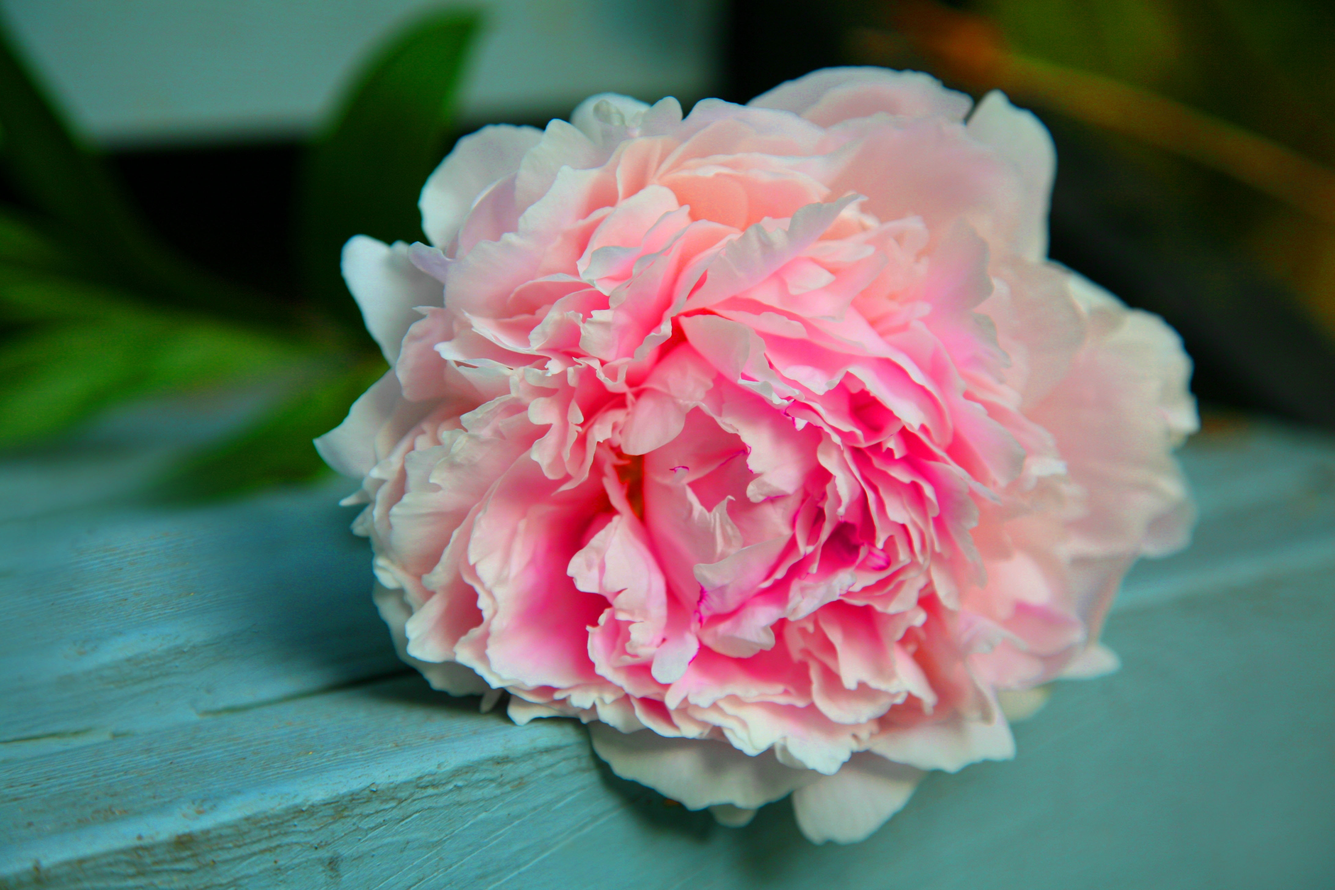
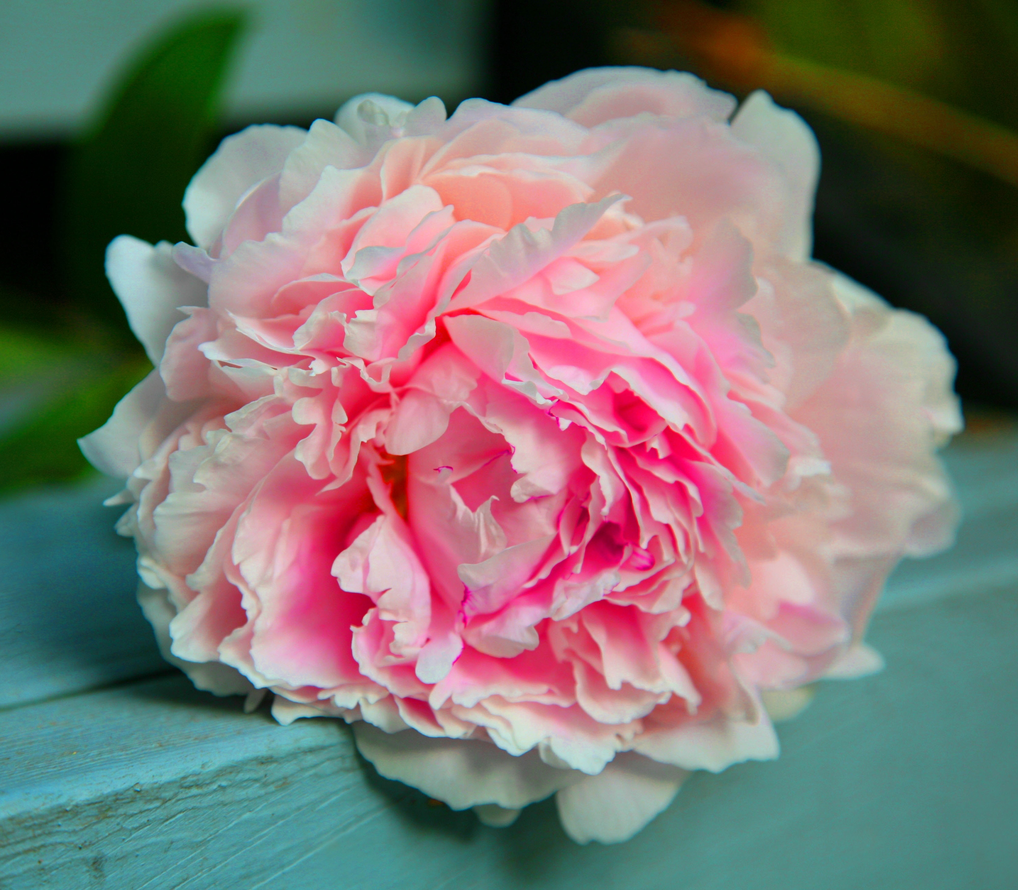
photo updates

diff --git a/assets/css/styles.css b/assets/css/styles.css
@@ -47,7 +47,7 @@ nav a {
 	height: 600px;
 	width: 100%;
 	background-size: 100% auto;
-	background-image: url("../images/pexels-photo-62279.jpeg");
+	background-image: url("../images/hero.jpeg");
 	background-repeat: no-repeat;
 }
 
